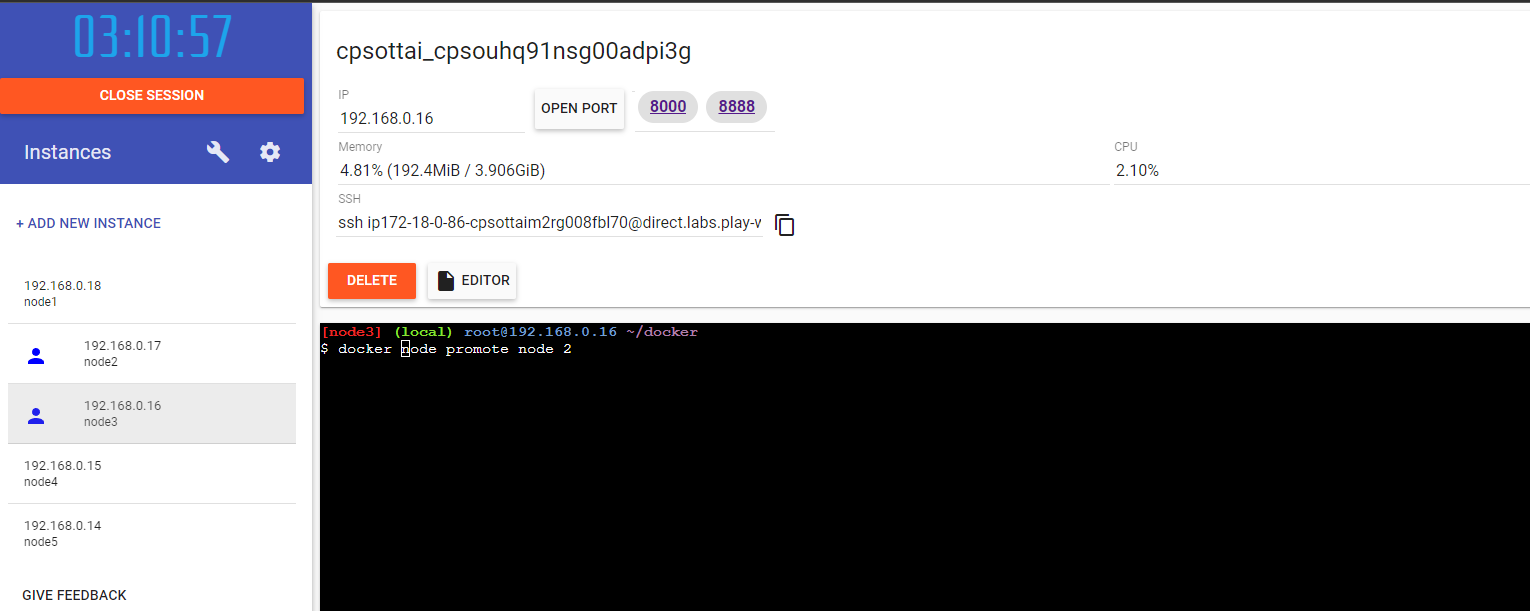
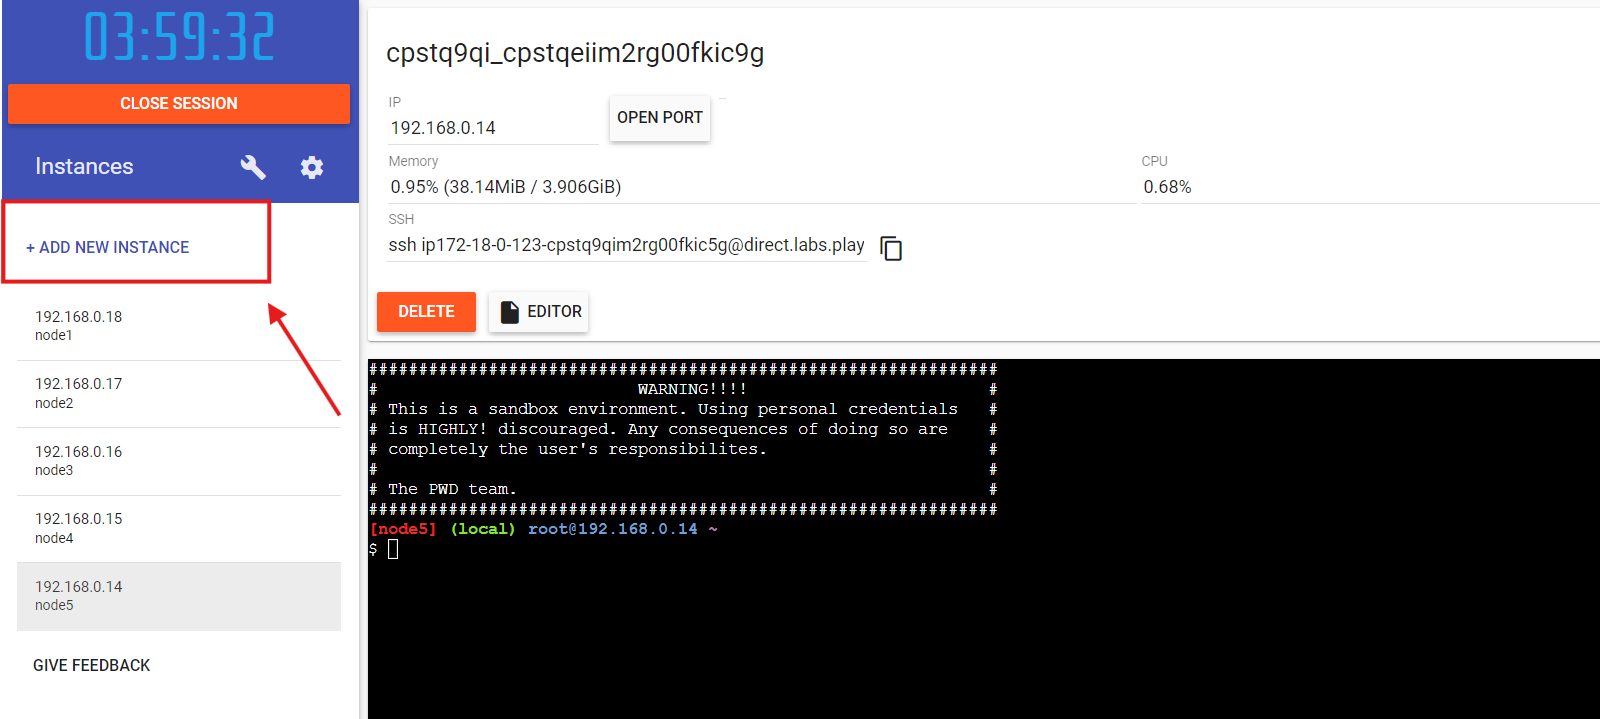
adjust readme

diff --git a/index.html b/index.html
@@ -1,11 +1,52 @@
 <!DOCTYPE html>
-<html>
+<html lang="en">
 <head>
-    <title>Data Hackers</title>
+    <meta charset="UTF-8">
+    <meta name="viewport" content="width=device-width, initial-scale=1.0">
+    <title>Wallace Graça - Data Engineer</title>
 </head>
 <body>
-    <h1>Acesse o site do Data Hackers e acompanhe para ser um(a) dev de primeira categoria!!!</h1>
-    <h2>https://www.datahackers.com.br/</h2>
 
+<!-- Hero Description -->
+<div class="heroDescription">
+    <p class="greeting">HI THERE! I'M</p>
+    <h1><span>Wallace Graça</span></h1>
+    <div class="heroImageContainer">
+        <img src="assets/me/wallace-camargo.png" alt="A picture of Wallace Graça.">
+    </div>
+    <h1><span>Data Engineer</span></h1>
+    <h1><span>Skills: SQL - Python - Spark - Cloud</span></h1>
+    <div class="socialsResume">
+        <ul class="socialsList">
+            <!-- LinkedIn -->
+            <li>
+                <a href="https://www.linkedin.com/in/wallace-camargo-35b615171/" target="_blank" rel="noopener noreferrer">
+                    <img src="https://img.shields.io/badge/LinkedIn-0077B5?style=for-the-badge&amp;logo=linkedin&amp;logoColor=white" alt="LinkedIn">
+                </a>
+            </li>
+            <!-- GitHub -->
+            <li>
+                <a href="https://github.com/wlcamargo" target="_blank" rel="noopener noreferrer">
+                    <img src="https://img.shields.io/badge/GitHub-100000?style=for-the-badge&amp;logo=github&amp;logoColor=white" alt="GitHub">
+                </a>
+            </li>
+            <!-- YouTube -->
+            <li>
+                <a href="https://www.youtube.com/channel/UCK0B4IoF57JoiVVVeEcN8-A/videos" target="_blank" rel="noopener noreferrer">
+                    <img src="https://img.shields.io/badge/YouTube-FF0000?style=for-the-badge&amp;logo=youtube&amp;logoColor=white" alt="YouTube">
+                </a>
+            </li>
+        </ul>
+    </div>
+</div>
+<!-- Data Hackers -->
+<p>Siga a Data Hackers nas redes sociais para ficar por dentro de todas as novidades da área de dados!</p>
+<ul class="socialsList">
+    <li>
+        <a href="https://www.datahackers.com.br" target="_blank" rel="noopener noreferrer" style="font-size: 1.2em;">
+            Data Hackers - Site
+        </a>
+    </li>
+</ul>
 </body>
 </html>

diff --git a/README.md b/README.md
@@ -7,7 +7,7 @@ Vamos simular uma orquestração com Docker Swarm no playgrond Docker.
 https://labs.play-with-docker.com/
 
 ### Crie 5 instâncias
-basta clicar em ``` ADD NEW INSTANCE```
+basta clicar em ```ADD NEW INSTANCE```
 
 sample:
 ![image](assets/instances.png)
@@ -17,9 +17,17 @@ sample:
 docker swarm init --advertise-addr <ip da instancia> 
 ```
 
-### Faça join das máquinas com o ip do Node Master
+### Faça join das máquinas com o token do node master
+sample:
+![image](assets/token.png)
 
-### Adicione um backup do Master
+Para copiar no playground, basta digitar:
+```control + insert```
+
+Para colar no Playground, basta digitar:
+```control + shift + v```
+
+### Adicione um backup do node master
 ```
 docker node promote node2
 ```
@@ -32,23 +40,27 @@ sample:
 
 ### Clone o repositorio
 ```
-git clone 
+git clone https://github.com/wlcamargo/docker_swarm
 ```
 
 ### Entre na pasta do projeto 
 ```
-cd 
+cd docker_swarm
 ```
 
-### Crie a aplicação no Swarm
+### Crie a stack orquestrada no Swarm
 ```
 docker stack deploy -c docker-compose.yml app-data-hackers_site
 ```
+sample:
+![image](assets/deploy.png)
 
 ### Verifique os serviços rodando no cluster
 ```
 docker service ls
 ```
+sample:
+![image](assets/service.png)
 
 ### Serviços / Porta
 
